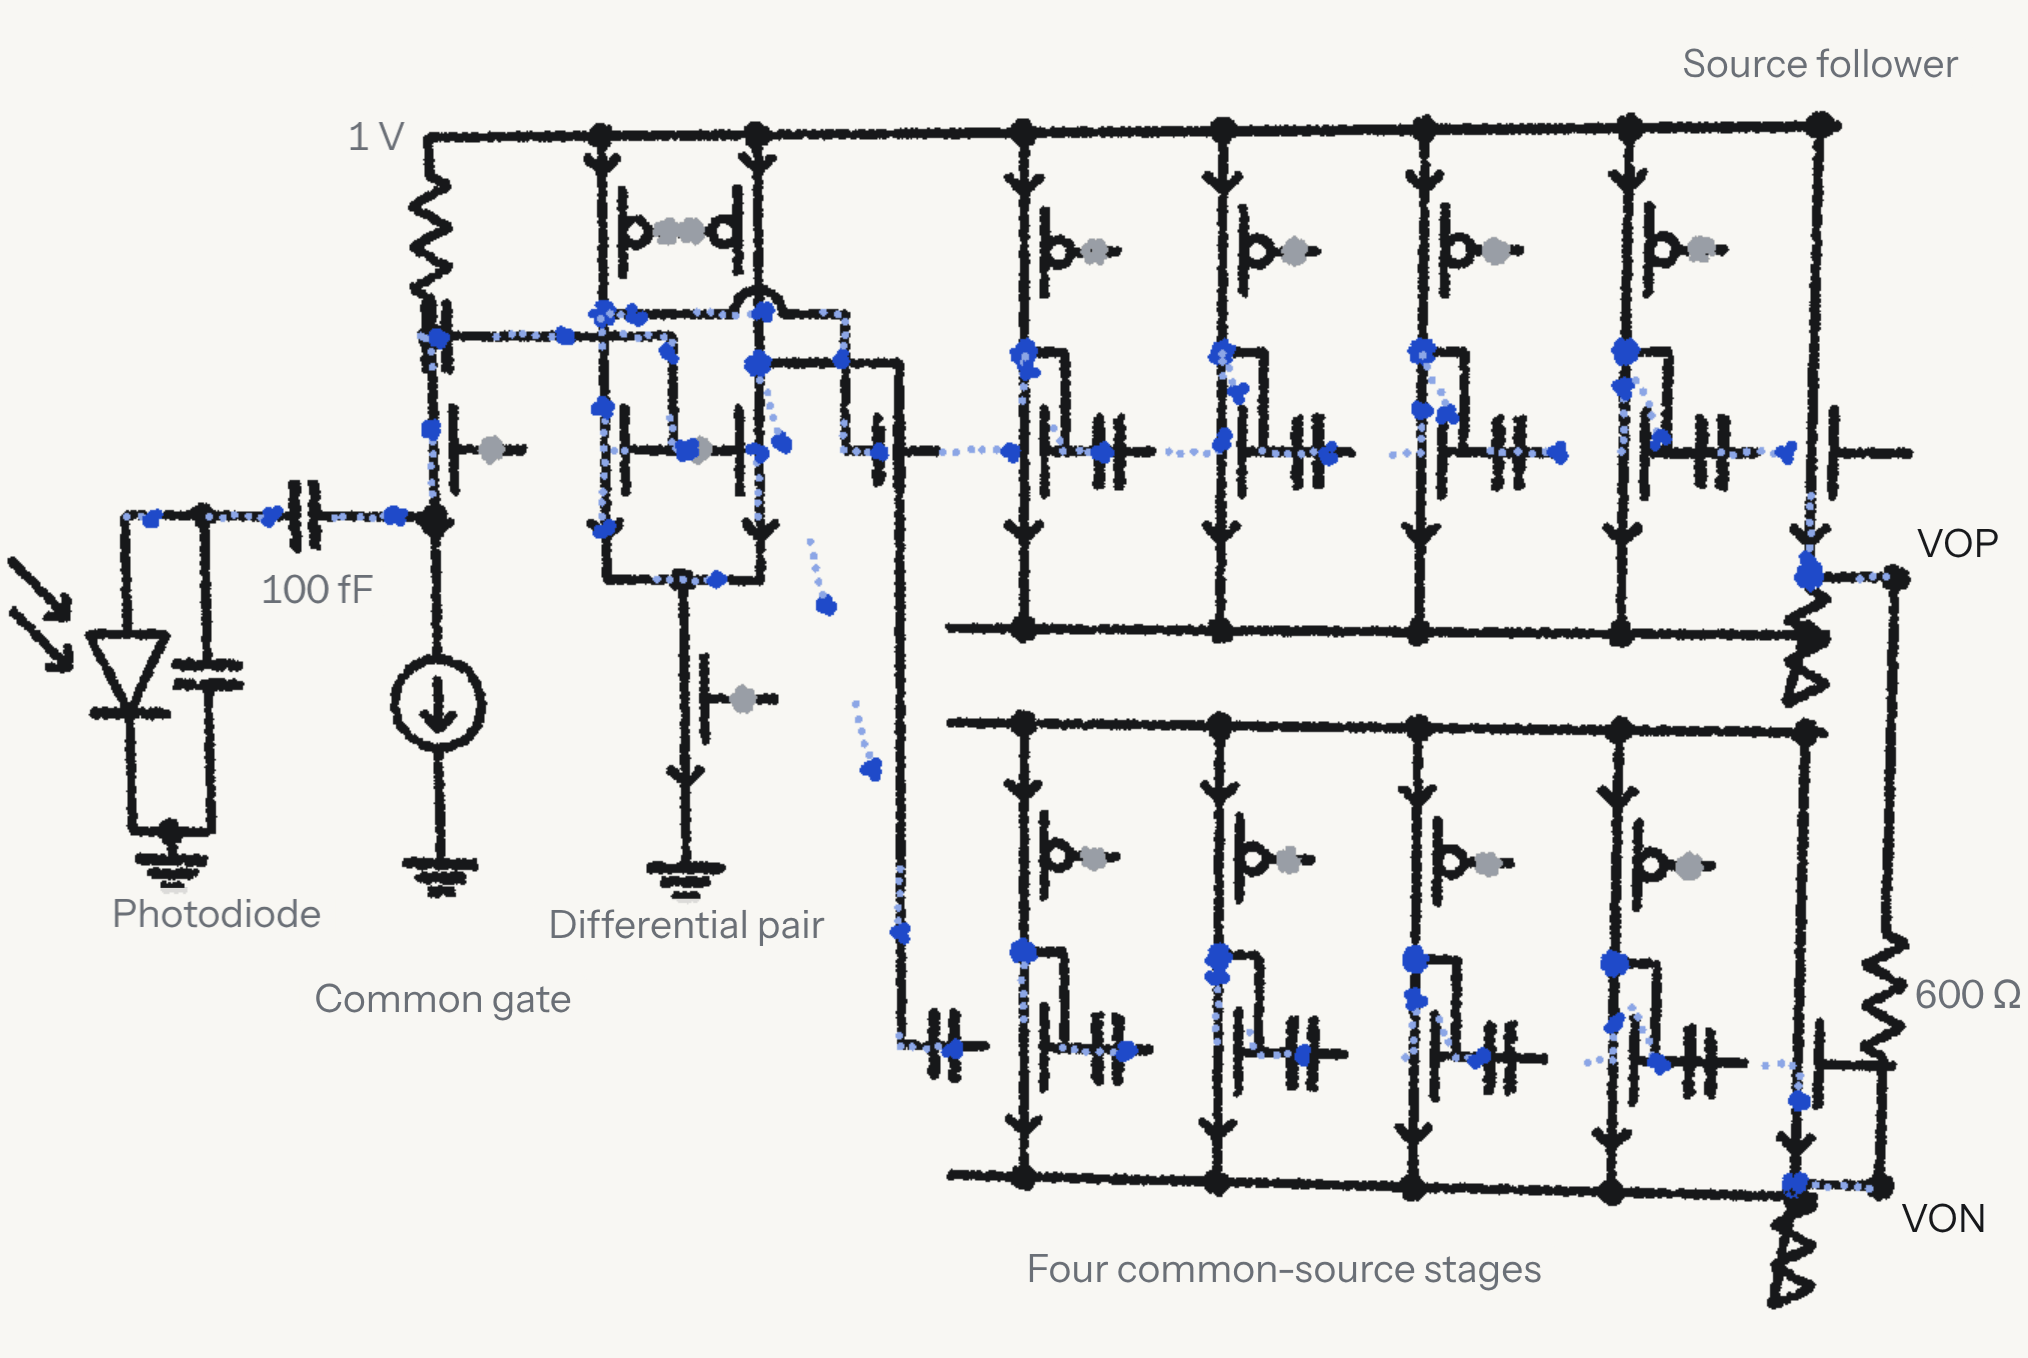
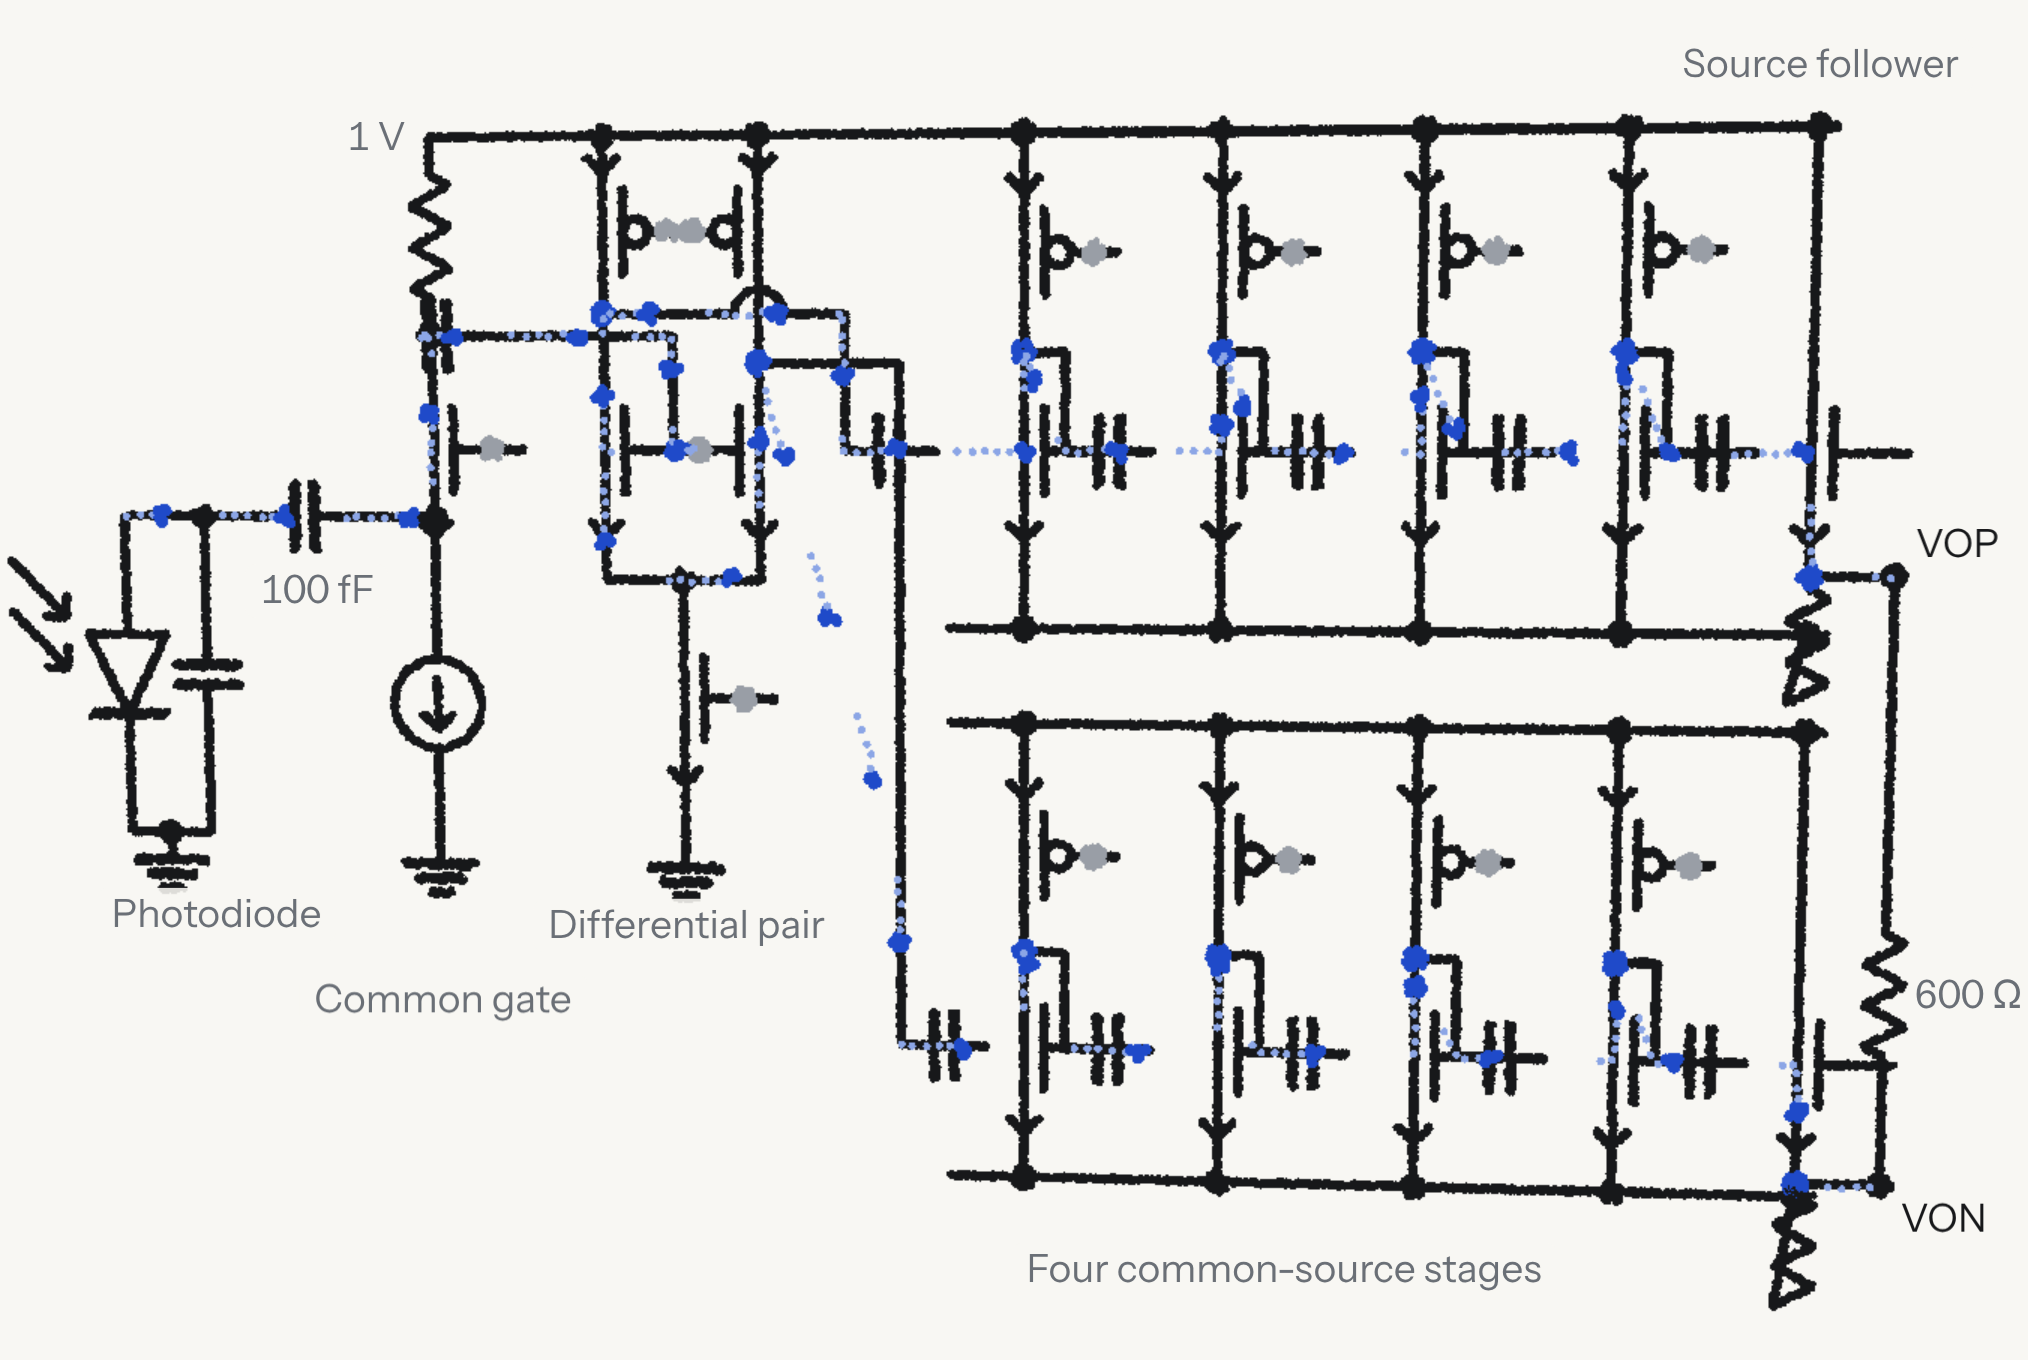
Crisp lines in the point clouds: even spacing along rods and curves, more points on the film's edges
rod() and curve() placed points uniformly at random along each line, so thin lines came out dashed and dotted. Points are now stratified along the line with a small jitter (same point count). Film block edges and Al side rods get a larger weight so they read as lines. The three static TIA figures are re-captured (trimmed with 48px padding) and the img width/height attributes updated.

Claude-Session: https://claude.ai/code/session_018LMzagV9NcEfjj8oFWPqm4

diff --git a/index.html b/index.html
@@ -171,7 +171,7 @@ cloud: true
                 </ul>
                 <figure class="fig fig--static step-fig">
                   <p class="fig-title"><b>45 nm CMOS TIA.</b> Signal chain.</p>
-                  <img src="{{ '/assets/img/tia-chain.png' | relative_url }}" width="2028" height="1358" alt="Schematic of the TIA signal chain: photodiode model, common-gate stage, differential pair, four common-source stages per path, source followers, 600 Ω load" loading="lazy">
+                  <img src="{{ '/assets/img/tia-chain.png' | relative_url }}" width="2028" height="1360" alt="Schematic of the TIA signal chain: photodiode model, common-gate stage, differential pair, four common-source stages per path, source followers, 600 Ω load" loading="lazy">
                 </figure>
               </div>
               <div class="stage-step" data-step="1">
@@ -189,7 +189,7 @@ cloud: true
                 <p class="case-intro">Gain flat at 109 dBΩ from 2.31 MHz to 492.88 MHz, from the Spectre AC sweep of VOP minus VON over the photodiode current.</p>
                 <figure class="fig fig--static step-fig">
                   <p class="fig-title"><b>45 nm CMOS TIA.</b> Spectre simulation, 1 V supply.</p>
-                  <img src="{{ '/assets/img/tia-gain.png' | relative_url }}" width="1735" height="1362" alt="Transimpedance gain against frequency: flat at 109 dBΩ, 3 dB down at 2.31 MHz and 492.88 MHz" loading="lazy">
+                  <img src="{{ '/assets/img/tia-gain.png' | relative_url }}" width="1733" height="1363" alt="Transimpedance gain against frequency: flat at 109 dBΩ, 3 dB down at 2.31 MHz and 492.88 MHz" loading="lazy">
                 </figure>
               </div>
             </div>
@@ -241,7 +241,7 @@ cloud: true
                 </div>
                 <figure class="fig fig--static box-fig" data-for="0">
                   <p class="fig-title"><b>45 nm CMOS TIA.</b> Signal chain.</p>
-                  <img src="{{ '/assets/img/tia-chain.png' | relative_url }}" width="2028" height="1358" alt="Schematic of the TIA signal chain: photodiode model, common-gate stage, differential pair, four common-source stages per path, source followers, 600 Ω load" loading="lazy">
+                  <img src="{{ '/assets/img/tia-chain.png' | relative_url }}" width="2028" height="1360" alt="Schematic of the TIA signal chain: photodiode model, common-gate stage, differential pair, four common-source stages per path, source followers, 600 Ω load" loading="lazy">
                 </figure>
                 <figure class="fig fig--static box-fig" data-for="1">
                   <p class="fig-title"><b>45 nm CMOS TIA.</b> Transient simulation, 300 MHz.</p>
@@ -249,7 +249,7 @@ cloud: true
                 </figure>
                 <figure class="fig fig--static box-fig" data-for="2">
                   <p class="fig-title"><b>45 nm CMOS TIA.</b> Spectre simulation, 1 V supply.</p>
-                  <img src="{{ '/assets/img/tia-gain.png' | relative_url }}" width="1735" height="1362" alt="Transimpedance gain against frequency: flat at 109 dBΩ, 3 dB down at 2.31 MHz and 492.88 MHz" loading="lazy">
+                  <img src="{{ '/assets/img/tia-gain.png' | relative_url }}" width="1733" height="1363" alt="Transimpedance gain against frequency: flat at 109 dBΩ, 3 dB down at 2.31 MHz and 492.88 MHz" loading="lazy">
                 </figure>
               </div>
             </div>

diff --git a/assets/js/cloud.js b/assets/js/cloud.js
@@ -85,8 +85,8 @@
     var d = sub(b, a), len = Math.hypot(d[0], d[1], d[2]);
     var u = norm(cross(d, Math.abs(d[1]) > 0.9 * len ? [1, 0, 0] : [0, 1, 0])), v = norm(cross(d, u));
     t0 = t0 || 0; t1 = t1 === undefined ? 1 : t1;
-    return function () {
-      var t = t0 + (t1 - t0) * rnd(), th = rnd() * 6.2832, q = r * Math.sqrt(rnd()), cu = Math.cos(th) * q, sv = Math.sin(th) * q;
+    return function (i, cnt) {
+      var t = t0 + (t1 - t0) * ((i + 0.5 + 0.7 * (rnd() - 0.5)) / cnt), th = rnd() * 6.2832, q = r * Math.sqrt(rnd()), cu = Math.cos(th) * q, sv = Math.sin(th) * q;
       return [a[0] + d[0] * t + u[0] * cu + v[0] * sv, a[1] + d[1] * t + u[1] * cu + v[1] * sv, a[2] + d[2] * t + u[2] * cu + v[2] * sv, color, size];
     };
   }
@@ -178,9 +178,9 @@
     var yAl = function (m) { return y0 + m * (RATIO + 1) / CYCLES * H; };
     for (var m = 1; m <= planes; m++) {
       parts.push({ w: 0.2, emit: rod([xl, yAl(m), zf + 0.012], [xr, yAl(m), zf + 0.012], 0.008, BLUE, 0.9 * COV) });
-      parts.push({ w: 0.09, emit: rod([xr + 0.012, yAl(m), zf], [xr + 0.012, yAl(m), -zf], 0.008, BLUE, 0.9 * COV) });
+      parts.push({ w: 0.15, emit: rod([xr + 0.012, yAl(m), zf], [xr + 0.012, yAl(m), -zf], 0.008, BLUE, 0.9 * COV) });
     }
-    var E = function (a, b, w, color) { parts.push({ w: w || 0.1, emit: rod(a, b, 0.008, color || INK, 0.9 * COV) }); };
+    var E = function (a, b, w, color) { parts.push({ w: w || 0.2, emit: rod(a, b, 0.008, color || INK, 0.9 * COV) }); };
     E([xl, y0, zf], [xr, y0, zf]); E([xl, yt, zf], [xr, yt, zf]); E([xl, y0, zf], [xl, yt, zf]); E([xr, y0, zf], [xr, yt, zf]);
     E([xr, y0, zf], [xr, y0, -zf]); E([xr, yt, zf], [xr, yt, -zf]); E([xr, y0, -zf], [xr, yt, -zf]); E([xl, yt, -zf], [xr, yt, -zf]); E([xl, yt, zf], [xl, yt, -zf]);
     E([xl, yb, zf], [xr, yb, zf]); E([xl, yb, zf], [xl, y0, zf]); E([xr, yb, zf], [xr, y0, zf]); E([xr, yb, zf], [xr, yb, -zf]); E([xr, yb, -zf], [xr, y0, -zf]);
@@ -211,7 +211,7 @@
   // Points along a curve given as [x,y] in scene units, as a tube of the given radius at depth z.
   // wave is the amplitude the vertex shader adds as a travelling sine (0 for still points).
   function curve(fn, radius, z, color, wave) {
-    return function () { var s = rnd(), xy = fn(s), th = rnd() * 6.2832, r = radius * Math.sqrt(rnd()); return [xy[0] + r * Math.cos(th), xy[1] + r * Math.sin(th), z + (rnd() - .5) * radius, color, 0.95 * COV, wave || 0]; };
+    return function (i, cnt) { var s = (i + 0.5 + 0.7 * (rnd() - 0.5)) / cnt, xy = fn(s), th = rnd() * 6.2832, r = radius * Math.sqrt(rnd()); return [xy[0] + r * Math.cos(th), xy[1] + r * Math.sin(th), z + (rnd() - .5) * radius, color, 0.95 * COV, wave || 0]; };
   }
   function disc(c, r, color) {
     return function () { var th = rnd() * 6.2832, q = r * Math.sqrt(rnd()); return [c[0] + q * Math.cos(th), c[1] + q * Math.sin(th), c[2], color, 1.1 * COV]; };
